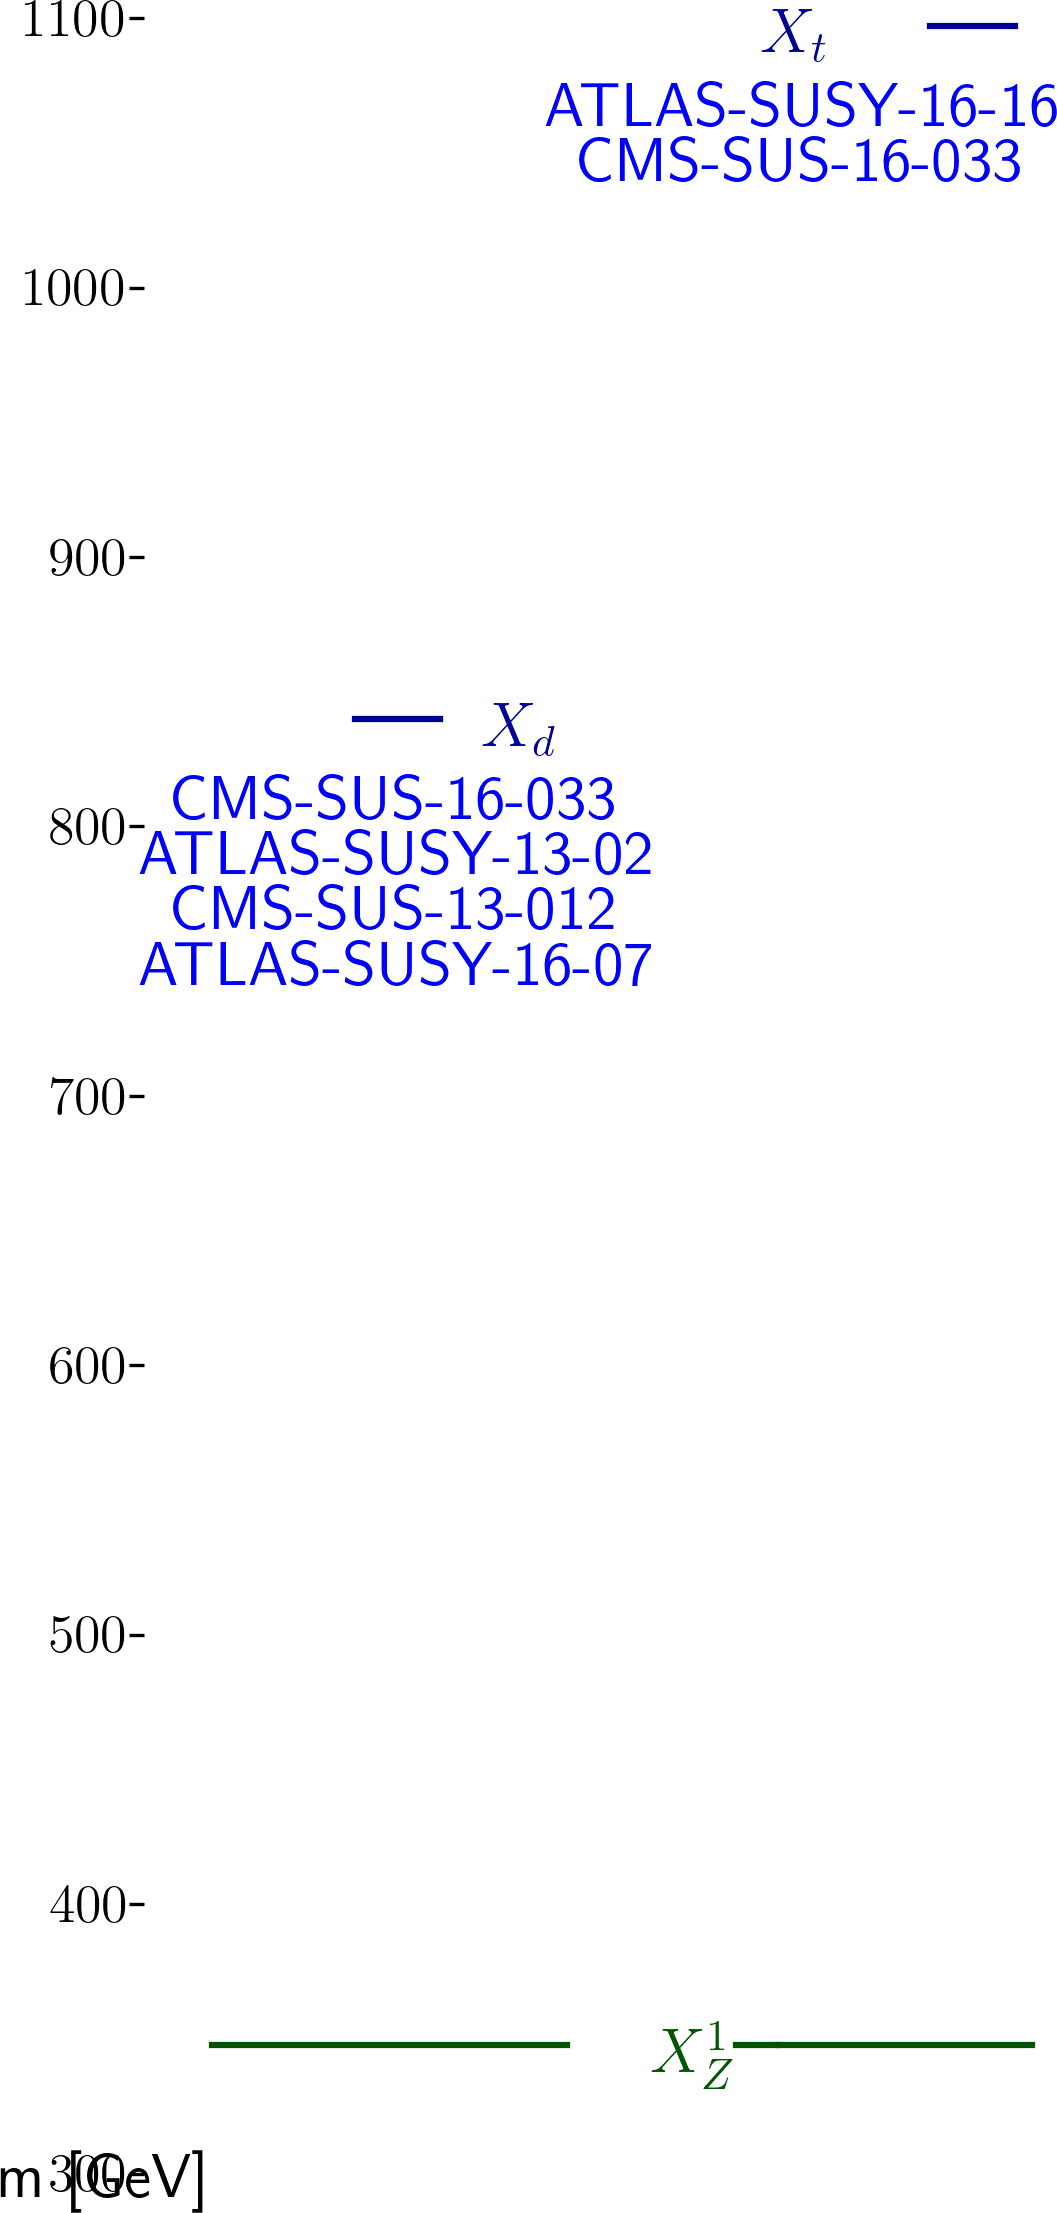
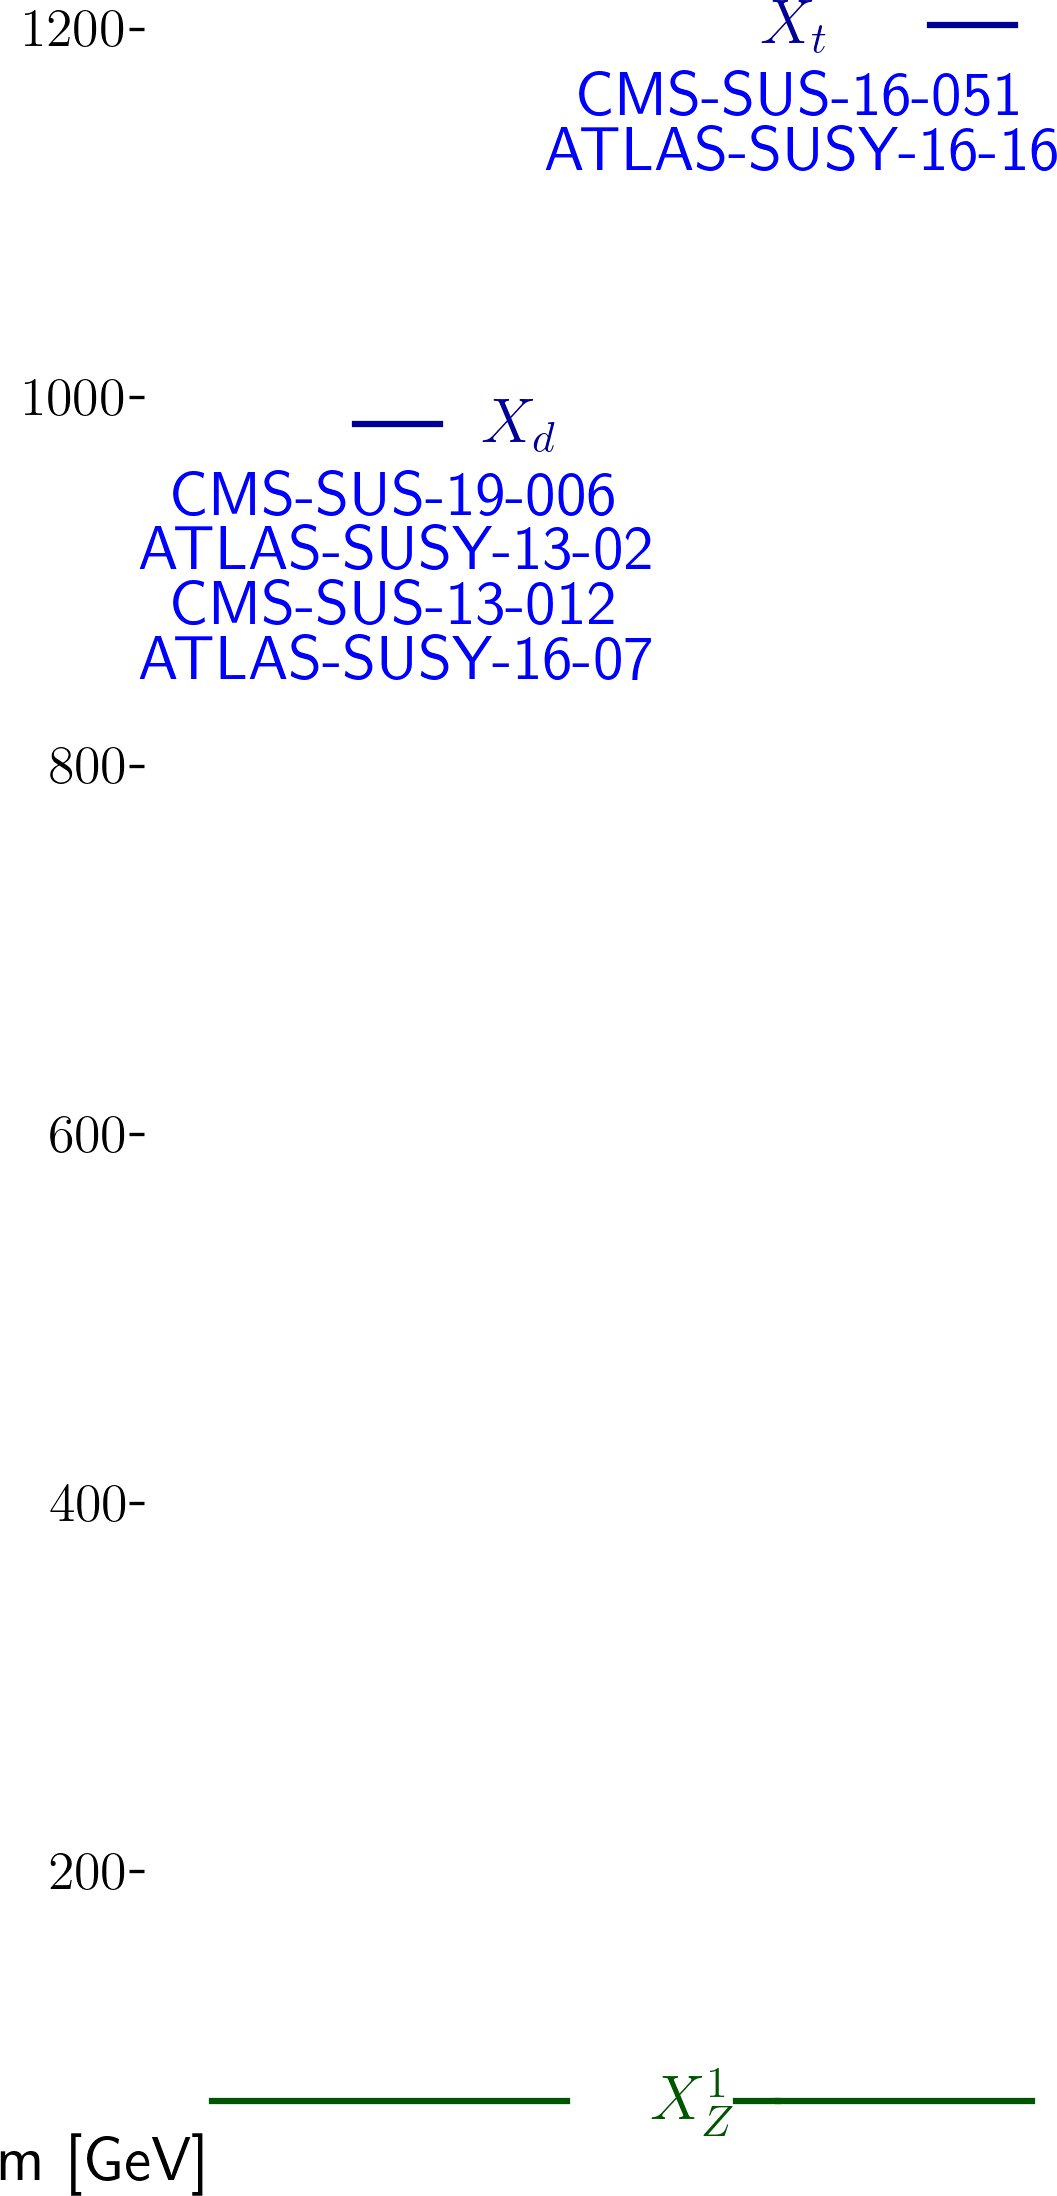
automated update by plotHiscore.py to /scratch-cbe/users/wolfgan.waltenberger/git/smodels.github.io/protomodels

diff --git a/protomodels/2020_PioneerStudy/closure_frozen8/index.html b/protomodels/2020_PioneerStudy/closure_frozen8/index.html
@@ -1,30 +1,31 @@
 <html>
 <body>
 <center>
-<table><td><h1>Current best protomodel: <i>K</i>=4.51</h1><td><img height=60px src=https://smodels.github.io/pics/banner.png></table>
+<table><td><h1>Current best protomodel: <i>K</i>=8.38</h1><td><img height=60px src=https://smodels.github.io/pics/banner.png></table>
 </center>
-<b><a href=./hiscore.slha>ProtoModel</a> <a href=./pmodel.py>(dict)</a> produced with <a href=https://smodels.github.io/docs/Validation124doublefrozen8>database v1.2.4doublefrozen8</a>, combination strategy <a href=./matrix_aggressive.png>aggressive</a> in walker 24 step 551.</b> <i>K</i> plots for: <a href=./M1000022.png?15044045>X<sub>Z</sub><sup>1</sup></a>, <a href=./M1000006.png?15044045>X<sub>t</sub></a>, <a href=./M1000001.png?15044045>X<sub>d</sub></a>. HPD plots for: <a href=./llhd1000006.png?15044045>X<sub>t</sub></a>, <a href=./llhd1000001.png?15044045>X<sub>d</sub></a>. SSM plots for: <a href=./ssm_-1000006_1000006.png?15044045>(x&#772;<sub>t</sub>,X<sub>t</sub>)</a><br>
+<b><a href=./hiscore.slha>ProtoModel</a> <a href=./pmodel.py>(dict)</a> produced with <a href=https://smodels.github.io/docs/Validation124frozen8>database v1.2.4frozen8</a>, combination strategy <a href=./matrix_aggressive.png>aggressive</a> in walker 23 step 354.</b> <i>K</i> plots for: <a href=./M1000022.png?15308792>X<sub>Z</sub><sup>1</sup></a>, <a href=./M1000006.png?15308792>X<sub>t</sub></a>, <a href=./M1000001.png?15308792>X<sub>d</sub></a>. HPD plots for: <a href=./llhd1000006.png?15308792>X<sub>t</sub></a>, <a href=./llhd1000001.png?15308792>X<sub>d</sub></a>. SSM plots for: <a href=./ssm_-1000006_1000006.png?15308792>(x&#772;<sub>t</sub>,X<sub>t</sub>)</a><br>
 <table width=80%>
 <tr><td>
-<br><b>24 predictions available. Highest r values are:</b><br><ul>
-<li><a href=http://cms-results.web.cern.ch/cms-results/public-results/publications/SUS-19-006/index.html>CMS-SUS-19-006</a>:T2 r=1.30, r<sub>exp</sub>=1.30<br>
-<li><a href=http://cms-results.web.cern.ch/cms-results/public-results/publications/SUS-19-006/index.html>CMS-SUS-19-006</a>:T2tt r=1.15, r<sub>exp</sub>=1.15<br>
-<li><a href=http://cms-results.web.cern.ch/cms-results/public-results/publications/SUS-16-049/index.html>CMS-SUS-16-049</a>:T2tt r=1.14, r<sub>exp</sub>=1.14<br>
-<li><a href=http://cms-results.web.cern.ch/cms-results/public-results/publications/SUS-16-050/index.html>CMS-SUS-16-050</a>:T2tt r=1.12, r<sub>exp</sub>=1.12<br>
-<li><a href=http://cms-results.web.cern.ch/cms-results/public-results/publications/SUS-16-033/index.html>CMS-SUS-16-033</a>:T2 r=0.97, r<sub>exp</sub>=0.97<br>
+<br><b>23 predictions available. Highest r values are:</b><br><ul>
+<li><a href=http://cms-results.web.cern.ch/cms-results/public-results/publications/SUS-19-006/index.html>CMS-SUS-19-006</a>:T2tt r=0.67, r<sub>exp</sub>=N/A<br>
+<li><a href=http://cms-results.web.cern.ch/cms-results/public-results/publications/SUS-16-050/index.html>CMS-SUS-16-050</a>:T2tt r=0.61, r<sub>exp</sub>=N/A<br>
+<li><a href=http://cms-results.web.cern.ch/cms-results/public-results/publications/SUS-16-049/index.html>CMS-SUS-16-049</a>:T2tt r=0.59, r<sub>exp</sub>=N/A<br>
+<li><a href=http://cms-results.web.cern.ch/cms-results/public-results/publications/SUS-16-036/index.html>CMS-SUS-16-036</a>:T2tt r=0.49, r<sub>exp</sub>=N/A<br>
+<li><a href=https://atlas.web.cern.ch/Atlas/GROUPS/PHYSICS/PAPERS/SUSY-2016-15/>ATLAS-SUSY-2016-15</a>:T2tt r=0.48, r<sub>exp</sub>=N/A<br>
 </ul>
 <td><br><b>K values without analyses: (contribution)</b><br>
 <ul>
-<li> <a href=https://twiki.cern.ch/twiki/bin/view/CMSPublic/PhysicsResultsSUS13012>CMS-SUS-13-012</a>: 4.86 (-6%)
-<li> <a href=https://atlas.web.cern.ch/Atlas/GROUPS/PHYSICS/PAPERS/SUSY-2013-02/>ATLAS-SUSY-2013-02</a>: 4.61 (-2%)
-<li> <a href=http://cms-results.web.cern.ch/cms-results/public-results/publications/SUS-16-033/index.html>CMS-SUS-16-033</a>: 4.04 (8%)
-<li> <a href=https://atlas.web.cern.ch/Atlas/GROUPS/PHYSICS/PAPERS/SUSY-2016-16/>ATLAS-SUSY-2016-16</a>: 2.80 (29%)
-<li> <a href=https://atlas.web.cern.ch/Atlas/GROUPS/PHYSICS/PAPERS/SUSY-2016-07/>ATLAS-SUSY-2016-07</a>: 0.24 (71%)
-<td><img width=600px src=./texdoc.png?1608044045>
-<br><font size=-1>Last updated: Tue Dec 15 15:54:05 2020</font>
+<li> <a href=http://cms-results.web.cern.ch/cms-results/public-results/publications/SUS-16-051/index.html>CMS-SUS-16-051</a>: 0.41 (15%)
+<li> <a href=http://cms-results.web.cern.ch/cms-results/public-results/publications/SUS-19-006/index.html>CMS-SUS-19-006</a>: 0.41 (15%)
+<li> <a href=https://twiki.cern.ch/twiki/bin/view/CMSPublic/PhysicsResultsSUS13012>CMS-SUS-13-012</a>: 0.41 (15%)
+<li> <a href=https://atlas.web.cern.ch/Atlas/GROUPS/PHYSICS/PAPERS/SUSY-2013-02/>ATLAS-SUSY-2013-02</a>: 0.35 (16%)
+<li> <a href=https://atlas.web.cern.ch/Atlas/GROUPS/PHYSICS/PAPERS/SUSY-2016-07/>ATLAS-SUSY-2016-07</a>: -0.80 (18%)
+<li> <a href=https://atlas.web.cern.ch/Atlas/GROUPS/PHYSICS/PAPERS/SUSY-2016-16/>ATLAS-SUSY-2016-16</a>: -2.21 (20%)
+<td><img width=600px src=./texdoc.png?1608308792>
+<br><font size=-1>Last updated: Fri Dec 18 17:26:32 2020</font>
 </table><table style="width:80%">
-<td width=45%><img height=580px src=./ruler.png?1608044045><td width=55%><img height=380px src=./decays.png?1608044046>
-<font size=-3><iframe type="text/html" height="220px" width="100%s" frameborder="0" src="./rawnumbers.html?1608044045"></iframe></font>
+<td width=45%><img height=580px src=./ruler.png?1608308792><td width=55%><img height=380px src=./decays.png?1608308792>
+<font size=-3><iframe type="text/html" height="220px" width="100%s" frameborder="0" src="./rawnumbers.html?1608308792"></iframe></font>
 </table>
 </body>
 </html>

diff --git a/protomodels/2020_PioneerStudy/closure_frozen8/rawnumbers.html b/protomodels/2020_PioneerStudy/closure_frozen8/rawnumbers.html
@@ -1,9 +1,10 @@
 <table>
 <tr><th>Analysis Name</th><th>Type</th><th>Dataset</th><th>Topos</th><th>Observed</th><th>Expected</th><th>Approx &sigma;</th><th>Particles</th><th>Signal</th>
 </tr>
-<tr><td><a href=https://atlas.web.cern.ch/Atlas/GROUPS/PHYSICS/PAPERS/SUSY-2013-02/>ATLAS-SUSY-2013-02</a></td><td>em</td> <td>SR2jm</td><td>T2</td><td>791.45</td><td>760 +/- 50</td><td style="text-align:right">0.6 &sigma;</td><td style="text-align:right">X<sub>d</sub></td><td style="text-align:right">31.45</td></tr>
-<tr><td><a href=https://atlas.web.cern.ch/Atlas/GROUPS/PHYSICS/PAPERS/SUSY-2016-07/>ATLAS-SUSY-2016-07</a></td><td>em</td> <td>2j_Meff_1200</td><td>T2</td><td>614.32</td><td>526 +/- 31</td><td style="text-align:right">2.3 &sigma;</td><td style="text-align:right">X<sub>d</sub></td><td style="text-align:right">88.32</td></tr>
+<tr><td><a href=https://atlas.web.cern.ch/Atlas/GROUPS/PHYSICS/PAPERS/SUSY-2013-02/>ATLAS-SUSY-2013-02</a></td><td>em</td> <td>SR4jt</td><td>T2</td><td>2.73</td><td>2.5 +/- 1</td><td style="text-align:right">0.1 &sigma;</td><td style="text-align:right">X<sub>d</sub></td><td style="text-align:right">0.23</td></tr>
+<tr><td><a href=https://atlas.web.cern.ch/Atlas/GROUPS/PHYSICS/PAPERS/SUSY-2016-07/>ATLAS-SUSY-2016-07</a></td><td>em</td> <td>2j_Meff_1200</td><td>T2</td><td>570.16</td><td>526 +/- 31</td><td style="text-align:right">1.1 &sigma;</td><td style="text-align:right">X<sub>d</sub></td><td style="text-align:right">44.16</td></tr>
 <tr><td><a href=https://atlas.web.cern.ch/Atlas/GROUPS/PHYSICS/PAPERS/SUSY-2016-16/>ATLAS-SUSY-2016-16</a></td><td>em</td> <td>tN_high</td><td>T2tt</td><td>7.73</td><td>3.8 +/- 1</td><td style="text-align:right">1.8 &sigma;</td><td style="text-align:right">X<sub>t</sub></td><td style="text-align:right">3.93</td></tr>
-<tr><td><a href=https://twiki.cern.ch/twiki/bin/view/CMSPublic/PhysicsResultsSUS13012>CMS-SUS-13-012</a></td><td>em</td> <td>8NJetinf_500HT8 ...</td><td>T2</td><td>4.80</td><td>4.8 +/- 2.3</td><td style="text-align:right">0.0 &sigma;</td><td style="text-align:right">X<sub>d</sub></td><td style="text-align:right">0.00</td></tr>
-<tr><td><a href=http://cms-results.web.cern.ch/cms-results/public-results/publications/SUS-16-033/index.html>CMS-SUS-16-033</a></td><td>em</td> <td>SR1_Njet2_Nb0_H ...</td><td>T2, T2tt</td><td>8000.72</td><td>7584 +/- 433</td><td style="text-align:right">0.9 &sigma;</td><td style="text-align:right">X<sub>d</sub>, X<sub>t</sub></td><td style="text-align:right">416.72</td></tr>
+<tr><td><a href=https://twiki.cern.ch/twiki/bin/view/CMSPublic/PhysicsResultsSUS13012>CMS-SUS-13-012</a></td><td>ul</td> <td>-</td><td>T2</td><td> 8.9 fb </td><td> 6.2 fb</td><td style="text-align:right">0.8 &sigma;</td><td style="text-align:right">X<sub>d</sub></td><td style="text-align:right">2.66 fb</td></tr>
+<tr><td><a href=http://cms-results.web.cern.ch/cms-results/public-results/publications/SUS-16-051/index.html>CMS-SUS-16-051</a></td><td>ul</td> <td>-</td><td>T2tt</td><td> 6.8 fb </td><td> 4.2 fb</td><td style="text-align:right">1.2 &sigma;</td><td style="text-align:right">X<sub>t</sub></td><td style="text-align:right">2.62 fb</td></tr>
+<tr><td><a href=http://cms-results.web.cern.ch/cms-results/public-results/publications/SUS-19-006/index.html>CMS-SUS-19-006</a></td><td>ul</td> <td>-</td><td>T2</td><td> 30.2 fb </td><td> 6.2 fb</td><td style="text-align:right">7.5 &sigma;</td><td style="text-align:right">X<sub>d</sub></td><td style="text-align:right">23.95 fb</td></tr>
 </table>

diff --git a/protomodels/2020_PioneerStudy/closure_frozen8/pmodel.py b/protomodels/2020_PioneerStudy/closure_frozen8/pmodel.py
@@ -1,1 +1,1 @@
-{'masses': {1000022: 337.886, 1000006: 1087.058, 1000001: 829.767}, 'ssmultipliers': {(1000022, 1000022): 0.0, (1000006, 1000006): 1.209, (-1000006, 1000006): 1.192, (-1000006, -1000006): 1.209, (1000006, 1000022): 1.209, (-1000006, 1000022): 1.209, (1000001, 1000001): 1.187, (-1000001, 1000001): 1.187, (-1000001, -1000001): 1.187, (1000001, 1000022): 1.187, (-1000001, 1000022): 1.187, (1000001, 1000006): 1.187, (-1000001, 1000006): 1.187, (-1000006, 1000001): 1.187, (-1000006, -1000001): 1.187}, 'decays': {1000022: {}, 1000006: {(1000022, 6): 1.0}, 1000001: {(1000022, 1): 1.0}}, 'timestamp': 'Tue Dec 15 15:53:53 2020', 'Z': 2.804, 'K': 4.51, 'walkerid': 24, 'step': 551, 'codever': '1.0', 'dbver': '1.2.4doublefrozen8'}
+{'masses': {1000022: 65.732, 1000006: 1191.86, 1000001: 975.332}, 'ssmultipliers': {(1000022, 1000022): 0.001, (1000006, 1000006): 1.795, (-1000006, 1000006): 1.795, (-1000006, -1000006): 1.795, (1000006, 1000022): 1.795, (-1000006, 1000022): 1.795, (1000001, 1000001): 1.052, (-1000001, 1000001): 1.052, (-1000001, -1000001): 1.052, (1000001, 1000022): 1.052, (-1000001, 1000022): 1.052, (1000001, 1000006): 1.052, (-1000001, 1000006): 1.052, (-1000006, 1000001): 1.052, (-1000006, -1000001): 1.052}, 'decays': {1000022: {}, 1000006: {(1000022, 6): 1.0}, 1000001: {(1000022, 1): 1.0}}, 'timestamp': 'Fri Dec 18 17:26:22 2020', 'Z': 3.454, 'K': 8.379, 'walkerid': 23, 'step': 354, 'codever': '1.0', 'dbver': '1.2.4frozen8'}
